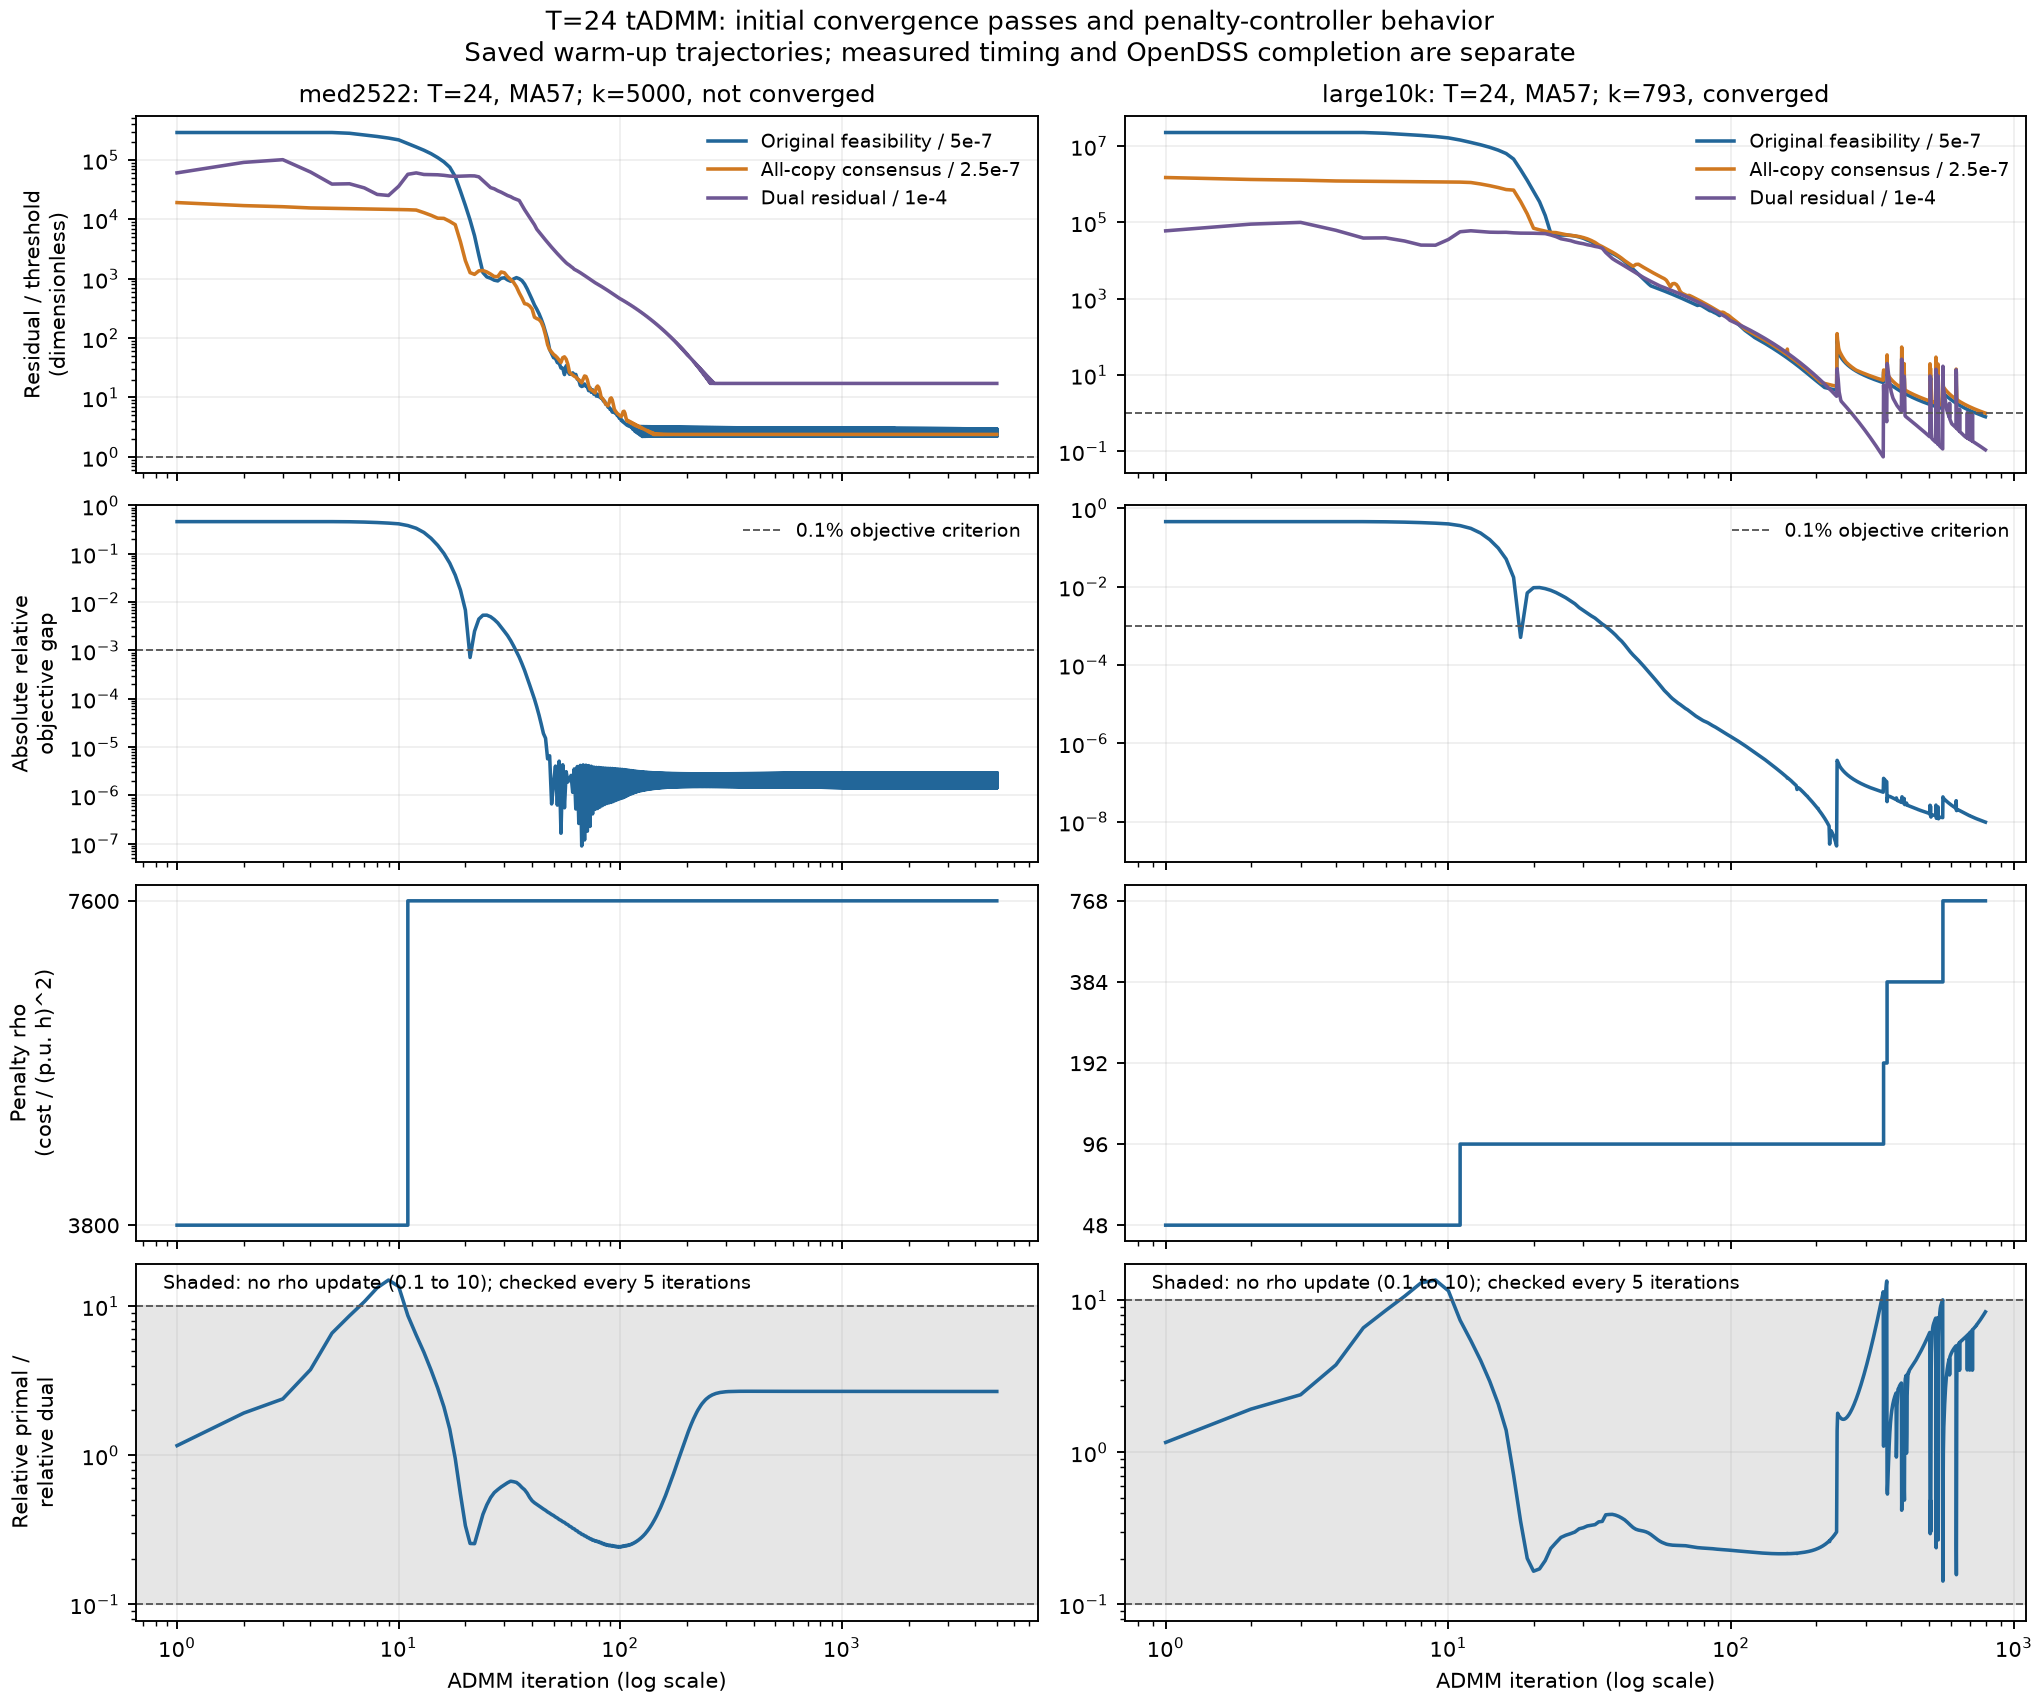
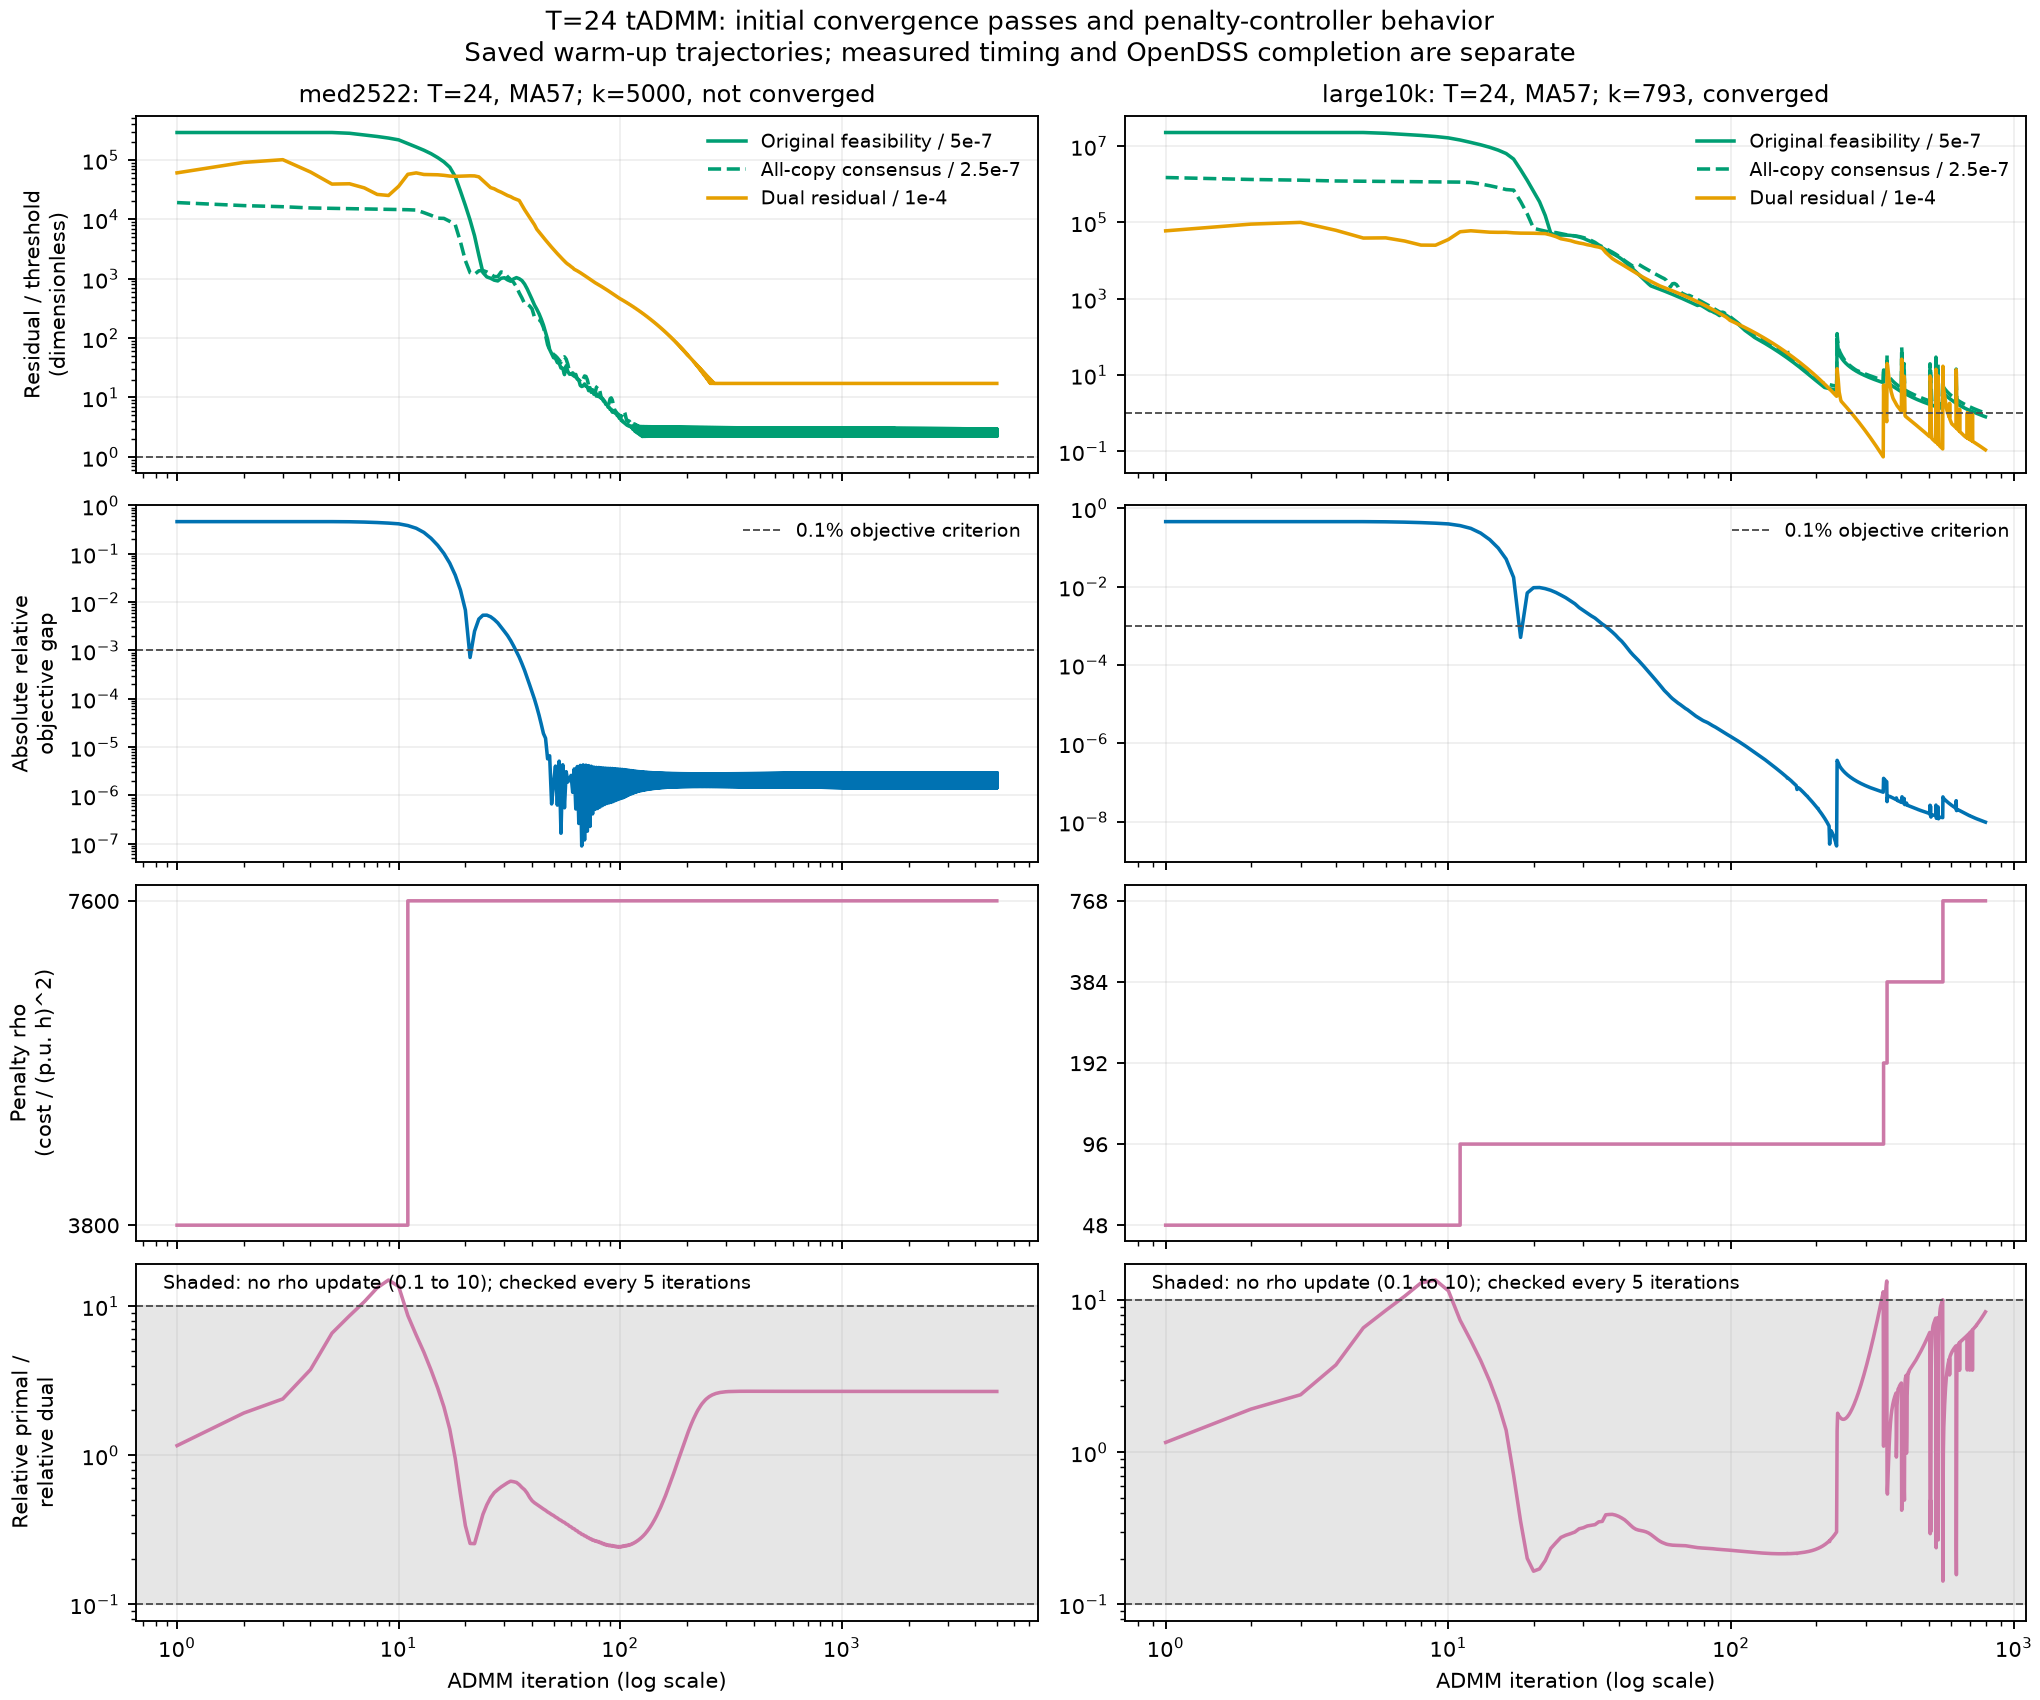
Match diagnostic plots to the existing tADMM color palette

diff --git a/problems/mpopf/tadmm/review_pilot/plot_live_t24.py b/problems/mpopf/tadmm/review_pilot/plot_live_t24.py
@@ -8,6 +8,7 @@ matplotlib.use('Agg')
 import matplotlib.pyplot as plt
 from matplotlib.ticker import FuncFormatter, NullLocator
 import numpy as np
+from plot_style import OBJECTIVE, PRIMAL, DUAL, RHO, CENTRAL_REFERENCE, THRESHOLD
 
 root = Path(sys.argv[1]).resolve()
 meta = json.loads((root / 'snapshot.json').read_text())
@@ -21,28 +22,28 @@ for col, case in enumerate(meta['cases']):
     ref = case['central_objective']
     original, rmax, smax = (values(k) for k in ('original_primal', 'r_max', 's_max'))
     objective, rho = values('objective'), values('rho')
-    for data, threshold, label, color in ((original, 5e-7, 'Original feasibility / 5e-7', '#226699'),
-            (rmax, 2.5e-7, 'All-copy consensus / 2.5e-7', '#d07820'),
-            (smax, 1e-4, 'Dual residual / 1e-4', '#6e5794')):
-        axes[0, col].loglog(x, np.maximum(data / threshold, 1e-16), label=label, color=color)
-    axes[0, col].axhline(1, color='.35', linestyle='--', linewidth=.8)
+    for data, threshold, label, color, style in ((original, 5e-7, 'Original feasibility / 5e-7', PRIMAL, '-'),
+            (rmax, 2.5e-7, 'All-copy consensus / 2.5e-7', PRIMAL, '--'),
+            (smax, 1e-4, 'Dual residual / 1e-4', DUAL, '-')):
+        axes[0, col].loglog(x, np.maximum(data / threshold, 1e-16), label=label, color=color, linestyle=style)
+    axes[0, col].axhline(1, color=THRESHOLD, linestyle='--', linewidth=.8)
     axes[0, col].set(title=f"{case['name']}: T=24, MA57; k={x[-1]}, {case.get('warmup_status', 'snapshot')}")
     axes[0, col].legend(frameon=False, fontsize=8)
     gap = np.abs(objective - ref) / max(1, abs(ref))
-    axes[1, col].loglog(x, np.maximum(gap, 1e-16), color='#226699')
-    axes[1, col].axhline(.001, color='.35', linestyle='--', linewidth=.8, label='0.1% objective criterion')
+    axes[1, col].loglog(x, np.maximum(gap, 1e-16), color=OBJECTIVE)
+    axes[1, col].axhline(.001, color=THRESHOLD, linestyle='--', linewidth=.8, label='0.1% objective criterion')
     axes[1, col].legend(frameon=False, fontsize=8)
-    axes[2, col].step(x, rho, where='post', color='#226699')
+    axes[2, col].step(x, rho, where='post', color=RHO)
     axes[2, col].set_xscale('log')
     axes[2, col].set_yscale('log', base=2)
     axes[2, col].set_yticks(sorted(set(rho)))
     axes[2, col].yaxis.set_major_formatter(FuncFormatter(lambda v, p: f'{v:g}'))
     axes[2, col].yaxis.set_minor_locator(NullLocator())
     relative_ratio = values('r_relative') / np.maximum(values('s_relative'), 1e-16)
-    axes[3, col].loglog(x, np.maximum(relative_ratio, 1e-16), color='#226699')
+    axes[3, col].loglog(x, np.maximum(relative_ratio, 1e-16), color=RHO)
     axes[3, col].axhspan(.1, 10, color='.9', zorder=-1)
     for boundary in (.1, 10):
-        axes[3, col].axhline(boundary, color='.35', linestyle='--', linewidth=.8)
+        axes[3, col].axhline(boundary, color=THRESHOLD, linestyle='--', linewidth=.8)
     axes[3, col].text(.03, .93, 'Shaded: no rho update (0.1 to 10); checked every 5 iterations', transform=axes[3, col].transAxes, fontsize=8)
     for row in range(4):
         axes[row, col].grid(True, which='major', alpha=.2)
@@ -68,17 +69,19 @@ for col, case in enumerate(meta['cases']):
         note='Warm-up diagnosis only; sustained qualification refers to this saved trajectory, not a separate measured run or OpenDSS validation'))
     if case['name'] == 'med2522':
         zoom, zz = plt.subplots(3, 1, figsize=(10, 7), layout='constrained', sharex=True)
-        for ax, y, label in zip(zz, (objective-ref, original, smax/1e-4),
-                ('Objective minus reference\n(objective units)', 'Original-model violation\n(per-unit units)', 'Dual residual / threshold\n(dimensionless)')):
-            ax.plot(x[tail], y[tail], color='.6', linewidth=.8)
-            for parity, color, label_parity in ((1, '#226699', 'Odd iterations'), (0, '#d07820', 'Even iterations')):
+        for ax, y, label, color in zip(zz, (objective-ref, original, smax/1e-4),
+                ('Objective minus reference\n(objective units)', 'Original-model violation\n(per-unit units)', 'Dual residual / threshold\n(dimensionless)'),
+                (OBJECTIVE, PRIMAL, DUAL)):
+            ax.plot(x[tail], y[tail], color=color, linewidth=.8, alpha=.6)
+            for parity, marker, filled, label_parity in ((1, 'o', True, 'Odd iterations'), (0, 's', False, 'Even iterations')):
                 mask = x[tail] % 2 == parity
-                ax.scatter(x[tail][mask], y[tail][mask], s=12, color=color, label=label_parity)
+                ax.scatter(x[tail][mask], y[tail][mask], s=14, marker=marker,
+                    facecolors=color if filled else 'white', edgecolors=color, linewidths=.8, label=label_parity)
             ax.set_ylabel(label)
             ax.grid(True, alpha=.2)
-        zz[0].axhline(0, color='.4', linewidth=.8, linestyle='--')
+        zz[0].axhline(0, color=CENTRAL_REFERENCE, linewidth=.8, linestyle='--')
         zz[0].legend(frameon=False, ncol=2)
-        zz[2].axhline(1, color='.4', linewidth=.8, linestyle='--')
+        zz[2].axhline(1, color=THRESHOLD, linewidth=.8, linestyle='--')
         zz[2].set_ylim(0, max(2, max(smax[tail]/1e-4)*1.2))
         zz[-1].set_xlabel('ADMM iteration')
         zoom.suptitle(f'med2522 T=24: last {n} warm-up iterations; rho = {rho[-1]:g}\nObserved alternation is a diagnostic, not proof of its cause', fontsize=11)

diff --git a/problems/mpopf/tadmm/review_pilot/plot_penalty_diagnostics.py b/problems/mpopf/tadmm/review_pilot/plot_penalty_diagnostics.py
@@ -6,6 +6,7 @@ import matplotlib
 matplotlib.use('Agg')
 import matplotlib.pyplot as plt
 from matplotlib.ticker import FuncFormatter, NullLocator
+from plot_style import PRIMAL, DUAL, RHO, THRESHOLD
 
 campaign = Path(sys.argv[1]).resolve()
 out = Path(sys.argv[2]).resolve()
@@ -15,26 +16,27 @@ metrics = [('original_primal', 'Original-model maximum violation (p.u.)', 5e-7),
     ('s_max', 'Dual residual maximum (cost / p.u. h)', 1e-4),
     ('rho', 'Penalty rho (cost / (p.u. h)^2)', None)]
 for col, (system, name) in enumerate((('ieee2522C_1ph', 'med2522'), ('large10kC_1ph', 'large10k'))):
-    for backend, color in (('ma57', '#2563a6'), ('ma97', '#c46920')):
+    for backend, style in (('ma57', '-'), ('ma97', '--')):
         cases = sorted((campaign / 'results').glob(f'{system}_T6_{backend}_verify_r0_*'))
         cases = [p for p in cases if (p / 'COMPLETE').exists()]
         assert len(cases) == 1, (system, backend, cases)
         trace = list(csv.DictReader((cases[0] / 'trace.csv').open()))
         for row, (key, label, threshold) in enumerate(metrics):
             axis = axes[row, col]
+            color = DUAL if key == 's_max' else RHO if key == 'rho' else PRIMAL
             x = [int(r['iteration']) for r in trace]
             y = [max(1e-16, float(r[key])) for r in trace]
             if key == 'rho':
-                axis.step(x, y, where='post', color=color, linewidth=1.5, label=backend.upper())
+                axis.step(x, y, where='post', color=color, linestyle=style, linewidth=1.5, label=backend.upper())
                 axis.set_xscale('log')
                 axis.set_yscale('log', base=2)
             else:
-                axis.loglog(x, y, color=color, linewidth=1.5, label=backend.upper())
+                axis.loglog(x, y, color=color, linestyle=style, linewidth=1.5, label=backend.upper())
             axis.set(xlabel='ADMM iteration (log scale)', ylabel=label)
             axis.grid(True, which='major', alpha=.2)
     for row, (_, _, threshold) in enumerate(metrics):
         if threshold is not None:
-            axes[row, col].axhline(threshold, color='.5', linewidth=.8, linestyle='--')
+            axes[row, col].axhline(threshold, color=THRESHOLD, linewidth=.8, linestyle=':')
     axes[0, col].set_title(f'{name}: corrected free-terminal MPOPF, T = 6')
     axes[0, col].legend(frameon=False)
     rho_axis = axes[3, col]

diff --git a/problems/mpopf/tadmm/review_pilot/plot.py b/problems/mpopf/tadmm/review_pilot/plot.py
@@ -5,10 +5,12 @@ import tomllib
 import matplotlib
 matplotlib.use('Agg')
 import matplotlib.pyplot as plt
+from plot_style import OBJECTIVE, PRIMAL, DUAL, THRESHOLD
 
 root = Path(__file__).resolve().parent / 'results'
 fig, axes = plt.subplots(2, 2, figsize=(10, 7), layout='constrained')
 names = {'ieee123C_1ph': 'IEEE123', 'ieee2522C_1ph': 'med2522', 'large10kC_1ph': 'large10k'}
+styles = {'ieee123C_1ph': '-', 'ieee2522C_1ph': '--', 'large10kC_1ph': '-.'}
 panels = [('gap', 'Objective agreement', 'Absolute relative objective gap', 1e-5),
           ('original_primal', 'Original-model feasibility', 'Maximum violation (per unit)', 5e-7),
           ('r_max', 'All SOC copies', 'Maximum consensus error (p.u. h)', 2.5e-7),
@@ -26,9 +28,11 @@ for out in sorted(root.iterdir()):
     ref = summary['central_objective']
     for axis, (key, title, ylabel, tol) in zip(axes.flat, panels):
         values = [abs(float(r['objective']) - ref) / max(1, abs(ref)) if key == 'gap' else float(r[key]) for r in trace]
-        axis.semilogy(iterations, [max(v, 1e-16) for v in values], label=names[summary['system']], linewidth=1.6)
+        color = OBJECTIVE if key == 'gap' else DUAL if key == 's_max' else PRIMAL
+        axis.semilogy(iterations, [max(v, 1e-16) for v in values], label=names[summary['system']],
+            color=color, linestyle=styles[summary['system']], linewidth=1.6)
         axis.set(title=title, xlabel='ADMM iteration', ylabel=ylabel)
-        axis.axhline(tol, color='0.6', linestyle='--', linewidth=0.7)
+        axis.axhline(tol, color=THRESHOLD, linestyle=':', linewidth=0.7)
         axis.grid(True, which='major', alpha=0.2)
 assert found, 'No validated measured traces available'
 axes[0, 0].legend(frameon=False)

diff --git a/problems/mpopf/tadmm/review_pilot/plot_style.py b/problems/mpopf/tadmm/review_pilot/plot_style.py
@@ -1,0 +1,11 @@
+"""Mirror the existing tADMM convergence plot's semantic color palette.
+
+Source: ../plots/plot_convergence_from_csv.jl, Wong (2011) palette block.
+Keep metric colors stable; distinguish systems/backends/parity by line or marker.
+"""
+OBJECTIVE = '#0072B2'       # RGB(0, 114, 178)
+PRIMAL = '#009E73'          # RGB(0, 158, 115)
+DUAL = '#E69F00'            # RGB(230, 159, 0)
+RHO = '#CC79A7'             # RGB(204, 121, 167)
+CENTRAL_REFERENCE = '#D55E00'  # RGB(213, 94, 0)
+THRESHOLD = '#505050'       # RGB(80, 80, 80)

diff --git a/problems/mpopf/tadmm/review_pilot/README.md b/problems/mpopf/tadmm/review_pilot/README.md
@@ -1,5 +1,13 @@
 # Corrected tADMM reviewer-response experiments — November 7, 2026
 
+Plot colors follow the existing semantic palette in
+`../plots/plot_convergence_from_csv.jl`: objective #0072B2, primal #009E73,
+dual #E69F00, rho #CC79A7, centralized reference #D55E00 and threshold #505050.
+`plot_style.py` shares those exact RGB values across the Python plotters.
+Use line styles or marker shapes for additional distinctions (systems, backends,
+odd/even iterations); retain the metric's color. Original feasibility and all-copy
+consensus are both primal quantities, shown green with solid/dashed lines.
+
 ## Current first-assessment scope (user update)
 
 Use T>=24 to assess performance and penalty policies. T=6 evidence is retained
